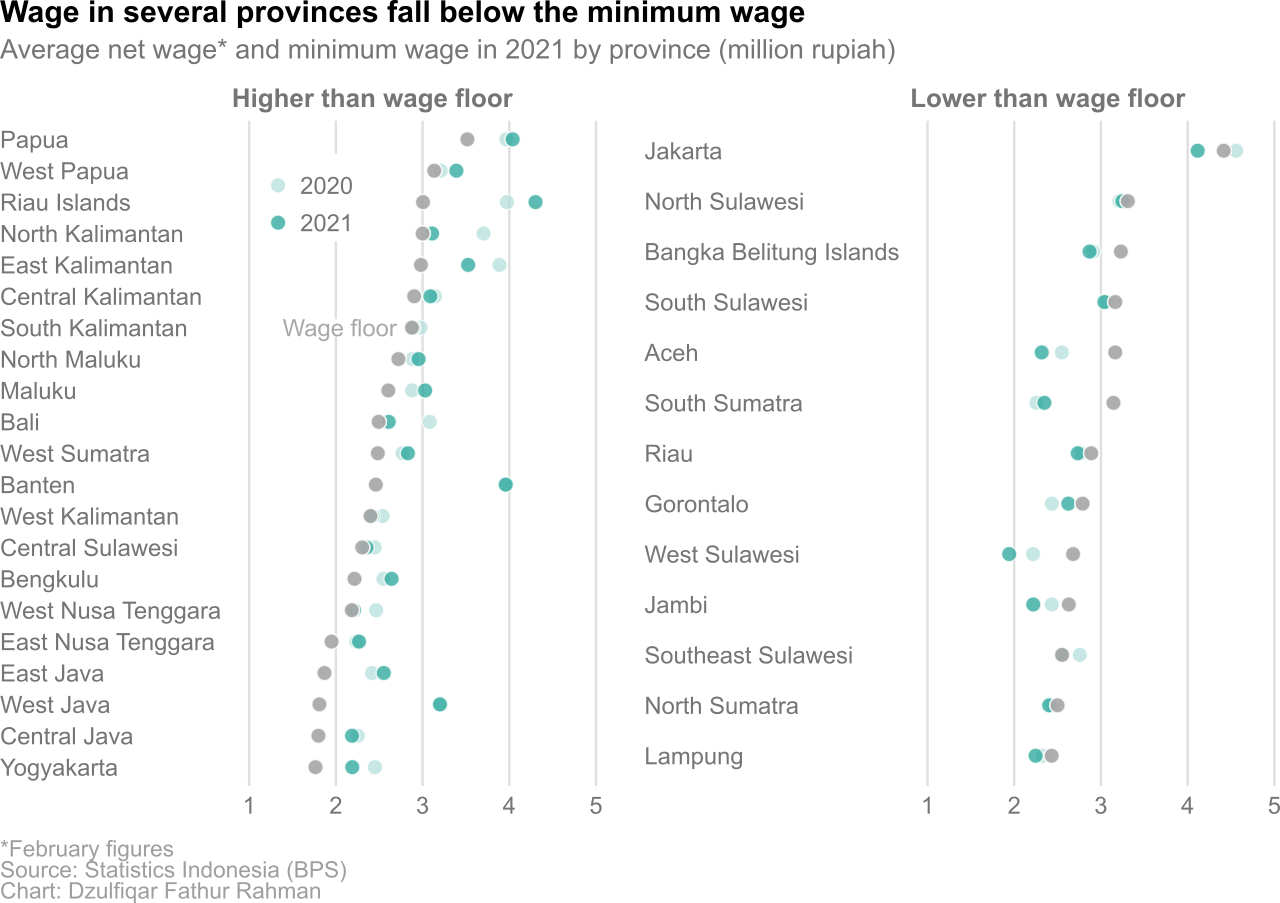
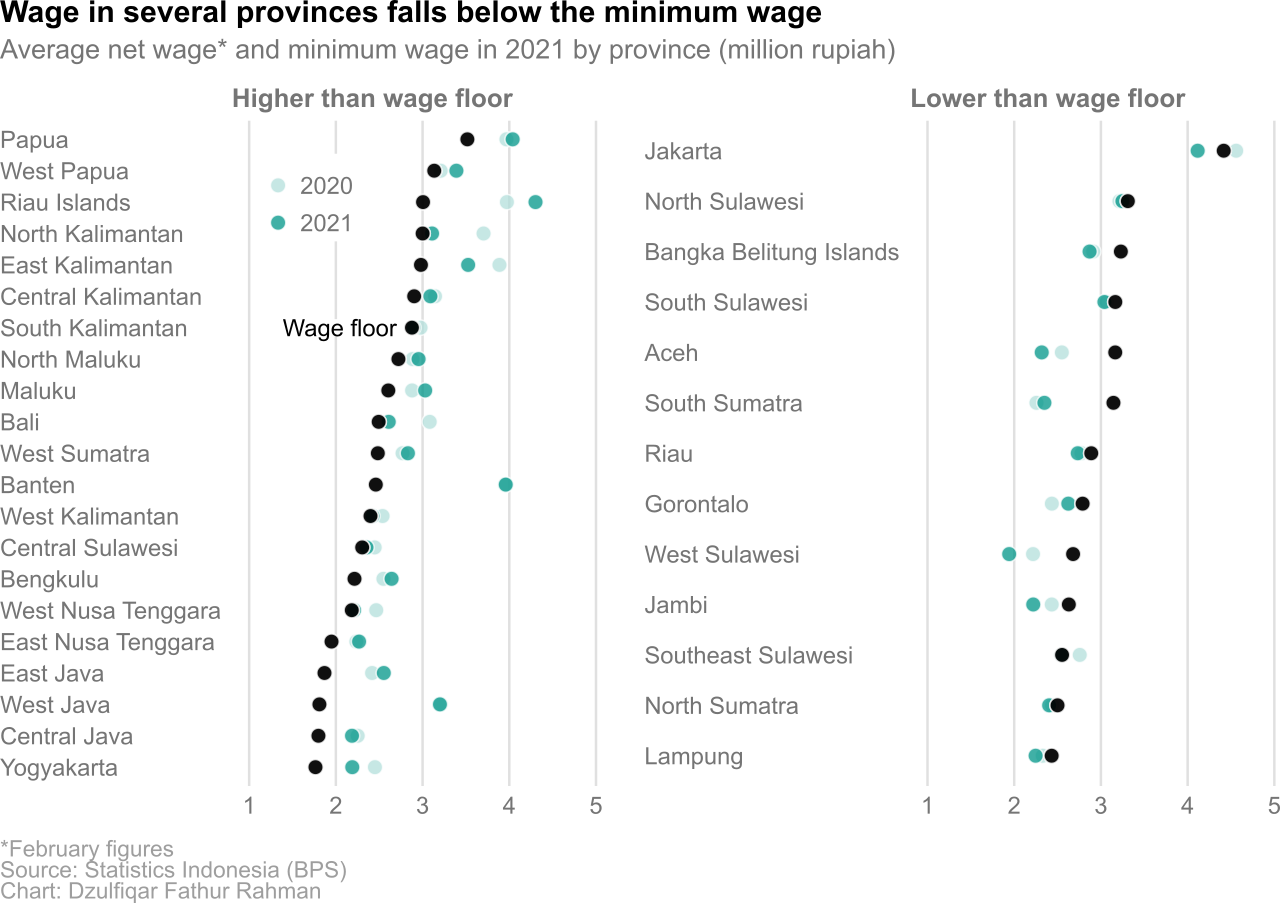
Change palette to improve contrast in minimum wage plot

diff --git a/2021/2021-06-14-covid-takes-toll-wages/README.md b/2021/2021-06-14-covid-takes-toll-wages/README.md
@@ -33,5 +33,6 @@ The chart on real wage and gross value added growth by sector:
 
 The chart on nominal wages and minimum wages by province:  
 - used a more descriptive subtitle;  
-- separated the chart into two panels based on whether the latest average net wage was below or above the wage floor; and  
+- separated the chart into two panels based on whether the latest average net wage was below or above the wage floor;  
+- changed the color palette to improve contrast; and  
 - added other minor visual improvements.
